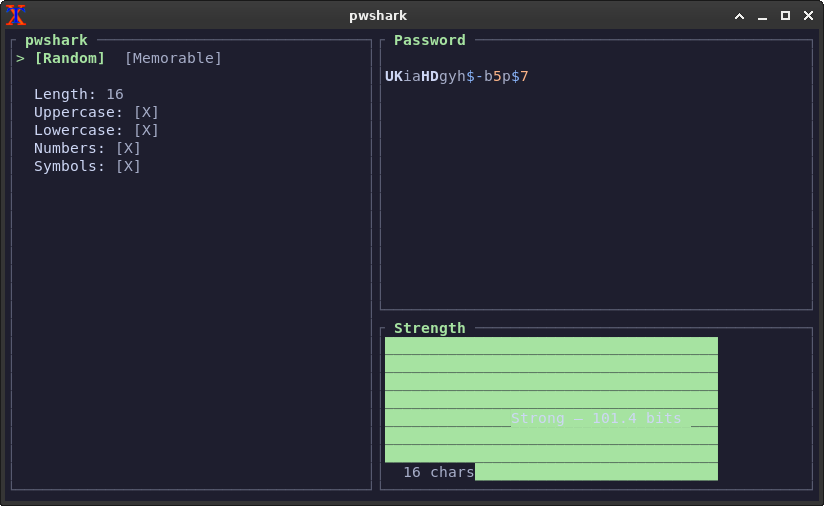
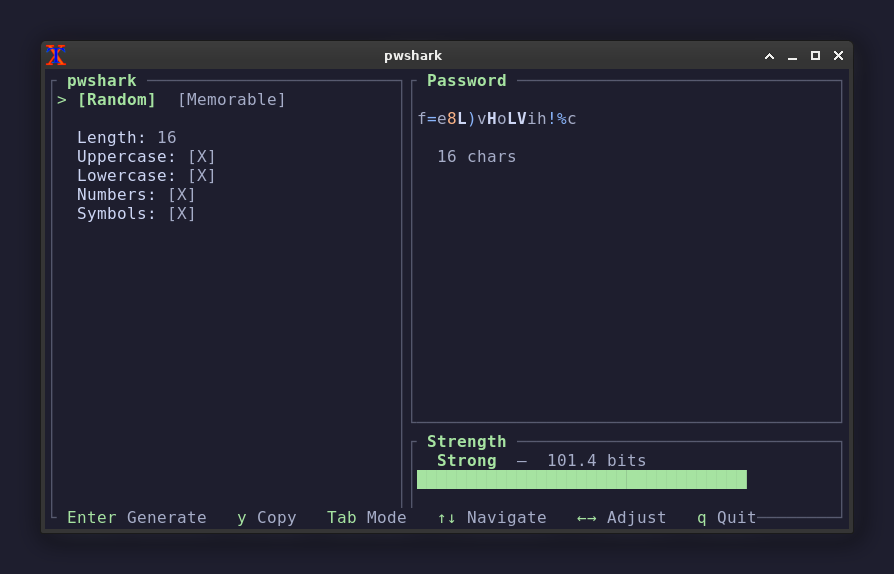
Add keybinding hints, compact strength bar, fix clipboard message
- Keybinding hint bar at bottom of TUI
- Strength panel: compact label + thin gauge instead of huge bar
- Clipboard message rendered inline in password panel
- Better screenshot with drop shadow on Catppuccin bg

diff --git a/src/tui.rs b/src/tui.rs
@@ -75,8 +75,9 @@ impl App {
 
     fn copy_to_clipboard(&mut self) {
         if let Some(ref pw) = self.password {
+            let text = pw.as_str().to_string();
             match arboard::Clipboard::new() {
-                Ok(mut cb) => match cb.set_text(pw.as_str()) {
+                Ok(mut cb) => match cb.set_text(&text) {
                     Ok(()) => {
                         self.clipboard_msg = Some("Copied! Clears in 15s".into());
                     }
@@ -343,6 +344,9 @@ fn draw(f: &mut Frame, app: &App) {
 
     draw_left(f, app, left_area);
     draw_right(f, app, right_area);
+
+    // Keybinding hints at the bottom of the screen
+    draw_hints(f, size);
 }
 
 fn draw_left(f: &mut Frame, app: &App, area: Rect) {
@@ -399,7 +403,7 @@ fn draw_left(f: &mut Frame, app: &App, area: Rect) {
 fn draw_right(f: &mut Frame, app: &App, area: Rect) {
     let chunks = Layout::default()
         .direction(Direction::Vertical)
-        .constraints([Constraint::Percentage(60), Constraint::Percentage(40)])
+        .constraints([Constraint::Min(5), Constraint::Length(5)])
         .split(area);
 
     draw_password_panel(f, app, chunks[0]);
@@ -417,6 +421,8 @@ fn draw_password_panel(f: &mut Frame, app: &App, area: Rect) {
 
     let inner = block.inner(area);
     f.render_widget(block, area);
+
+    let mut lines: Vec<Line> = Vec::new();
 
     if let Some(ref pw) = app.password {
         let spans: Vec<Span> = pw
@@ -438,22 +444,26 @@ fn draw_password_panel(f: &mut Frame, app: &App, area: Rect) {
             })
             .collect();
 
-        let line = Line::from(spans);
-        let para = Paragraph::new(vec![Line::raw(""), line]).wrap(Wrap { trim: false });
-        f.render_widget(para, inner);
+        lines.push(Line::raw(""));
+        lines.push(Line::from(spans));
+        lines.push(Line::raw(""));
+
+        if let Some(ref msg) = app.clipboard_msg {
+            lines.push(Line::from(Span::styled(
+                format!("  {msg}"),
+                Style::default().fg(GREEN),
+            )));
+        }
+
+        let pw_len = pw.as_str().len();
+        lines.push(Line::from(Span::styled(
+            format!("  {} chars", pw_len),
+            Style::default().fg(DIM),
+        )));
     }
 
-    if let Some(ref msg) = app.clipboard_msg {
-        let hint = Line::from(Span::styled(
-            format!("  {msg}"),
-            Style::default().fg(GREEN),
-        ));
-        let para = Paragraph::new(hint);
-        f.render_widget(para, Rect {
-            y: area.bottom().saturating_sub(1),
-            ..inner
-        });
-    }
+    let para = Paragraph::new(lines).wrap(Wrap { trim: false });
+    f.render_widget(para, inner);
 }
 
 fn draw_strength_panel(f: &mut Frame, app: &App, area: Rect) {
@@ -479,28 +489,66 @@ fn draw_strength_panel(f: &mut Frame, app: &App, area: Rect) {
     let inner = block.inner(area);
     f.render_widget(block, area);
 
-    let gauge = Gauge::default()
-        .gauge_style(Style::default().fg(color))
-        .percent(pct)
-        .label(format!("{label} — {entropy:.1} bits", entropy = app.entropy));
-    f.render_widget(gauge, inner);
-
-    if let Some(ref pw) = app.password {
-        let info = Line::from(Span::styled(
-            format!("  {} chars", pw.as_str().len()),
+    // Compact: label on first line, thin gauge on second
+    let label_line = Line::from(vec![
+        Span::styled(
+            format!("  {label}"),
+            Style::default().fg(color).add_modifier(Modifier::BOLD),
+        ),
+        Span::styled(
+            format!("  —  {:.1} bits", app.entropy),
             Style::default().fg(DIM),
-        ));
-        let para = Paragraph::new(info);
-        f.render_widget(
-            para,
-            Rect {
-                y: inner.bottom().saturating_sub(1),
-                x: inner.x,
-                width: inner.width,
-                height: 1,
-            },
-        );
+        ),
+    ]);
+
+    let gauge_height = if inner.height > 2 { 1 } else { 0 };
+
+    let content_chunks = Layout::default()
+        .direction(Direction::Vertical)
+        .constraints([
+            Constraint::Length(1),
+            Constraint::Length(gauge_height),
+        ])
+        .split(inner);
+
+    let label_para = Paragraph::new(label_line);
+    f.render_widget(label_para, content_chunks[0]);
+
+    if gauge_height > 0 {
+        let gauge = Gauge::default()
+            .gauge_style(Style::default().fg(color).bg(Color::Rgb(30, 30, 46)))
+            .percent(pct)
+            .label("");
+        f.render_widget(gauge, content_chunks[1]);
     }
+}
+
+fn draw_hints(f: &mut Frame, area: Rect) {
+    let hints = Line::from(vec![
+        Span::styled(" Enter", Style::default().fg(GREEN)),
+        Span::styled(" Generate  ", Style::default().fg(DIM)),
+        Span::styled(" y", Style::default().fg(GREEN)),
+        Span::styled(" Copy  ", Style::default().fg(DIM)),
+        Span::styled(" Tab", Style::default().fg(GREEN)),
+        Span::styled(" Mode  ", Style::default().fg(DIM)),
+        Span::styled(" ↑↓", Style::default().fg(GREEN)),
+        Span::styled(" Navigate  ", Style::default().fg(DIM)),
+        Span::styled(" ←→", Style::default().fg(GREEN)),
+        Span::styled(" Adjust  ", Style::default().fg(DIM)),
+        Span::styled(" q", Style::default().fg(GREEN)),
+        Span::styled(" Quit", Style::default().fg(DIM)),
+    ]);
+
+    let para = Paragraph::new(hints);
+    f.render_widget(
+        para,
+        Rect {
+            x: area.x + 1,
+            y: area.bottom().saturating_sub(1),
+            width: area.width.saturating_sub(2),
+            height: 1,
+        },
+    );
 }
 
 fn draw_random_options(app: &App) -> Vec<Line<'static>> {
